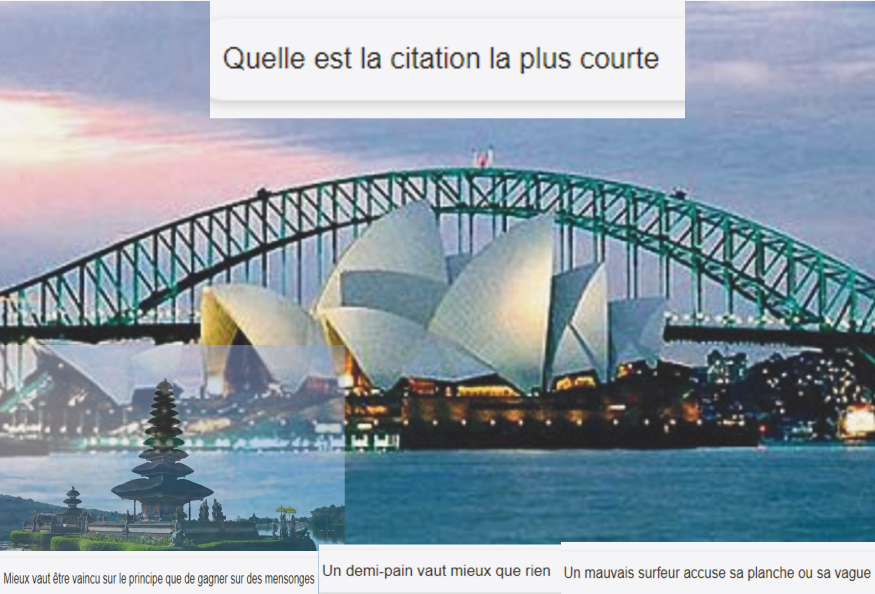
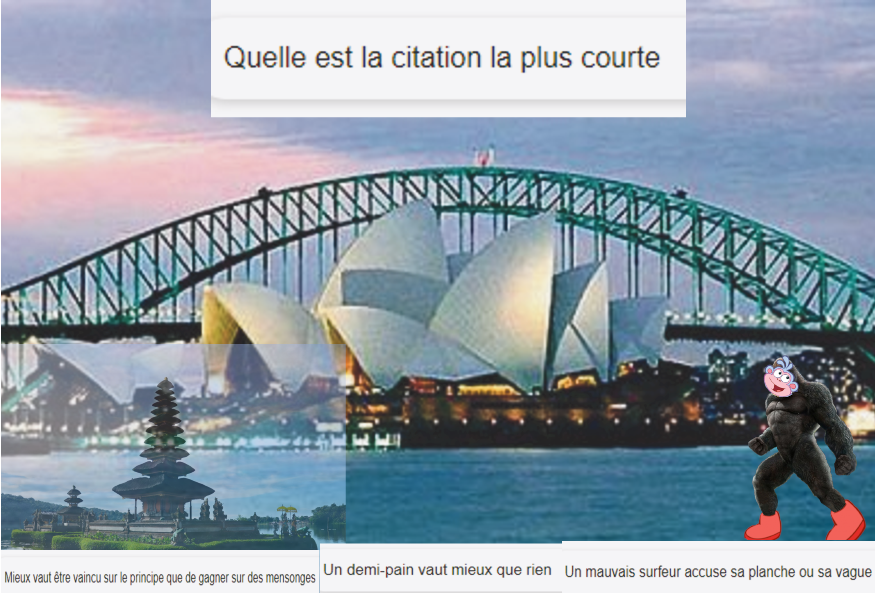
add] blocked alex movement when a question was asked

diff --git a/sources/init.c b/sources/init.c
@@ -38,8 +38,8 @@ int alex_sprite(global_t *g)
     sfSprite_setTexture(g->alex.sprite, g->alex.texture, TRUE);
     g->alex.scale.x = 0.20;
     g->alex.scale.y = 0.20;
-    g->alex.pos.x = 950;
-    g->alex.pos.y = 200;
+    g->alex.pos.x = 900;
+    g->alex.pos.y = 950;
     sfSprite_setScale(g->alex.sprite, g->alex.scale);
     sfSprite_setPosition(g->alex.sprite, g->alex.pos);
     sfSprite_setOrigin(g->alex.sprite, origin);
@@ -94,8 +94,8 @@ int continent_music(global_t *g)
 
 int init(global_t *g)
 {
-    g->clic_pos.x = 950;
-    g->clic_pos.y = 200;
+    g->clic_pos.x = 900;
+    g->clic_pos.y = 950;
     g->window = create_Window();
     sfRenderWindow_setFramerateLimit(g->window, 60);
     g->bloc = malloc(sizeof(objet_t) * 6);

diff --git a/sources/event.c b/sources/event.c
@@ -16,10 +16,8 @@ int check_event_close(global_t *g)
 
 int check_event_mouse(global_t *g)
 {
-    if (g->event.type == sfEvtMouseButtonPressed) {
+    if (g->event.type == sfEvtMouseButtonPressed)
         g->clic_pos = sfMouse_getPositionRenderWindow(g->window);
-        printf("%i, %i\n", g->clic_pos.x, g->clic_pos.y);
-    }
     return 0;
 }
 

diff --git a/sources/window.c b/sources/window.c
@@ -78,7 +78,12 @@ int contibox(global_t *g)
 
 int changes(global_t *g)
 {
-    alex_move(g);
+    for (int i = AMER_ND; i <= OCEA; i += 1) {
+        if (i < OCEA && g->music[i].m == 1)
+            break;
+        if (i == OCEA && g->music[i].m == 0)
+            alex_move(g);
+    }
     contibox(g);
     return 0;
 }

diff --git a/include/include.h b/include/include.h
@@ -78,6 +78,7 @@ typedef struct
 
     sfVector2i clic_pos;
     int exit;
+    int quest;
 }global_t;
 
 // fonction
